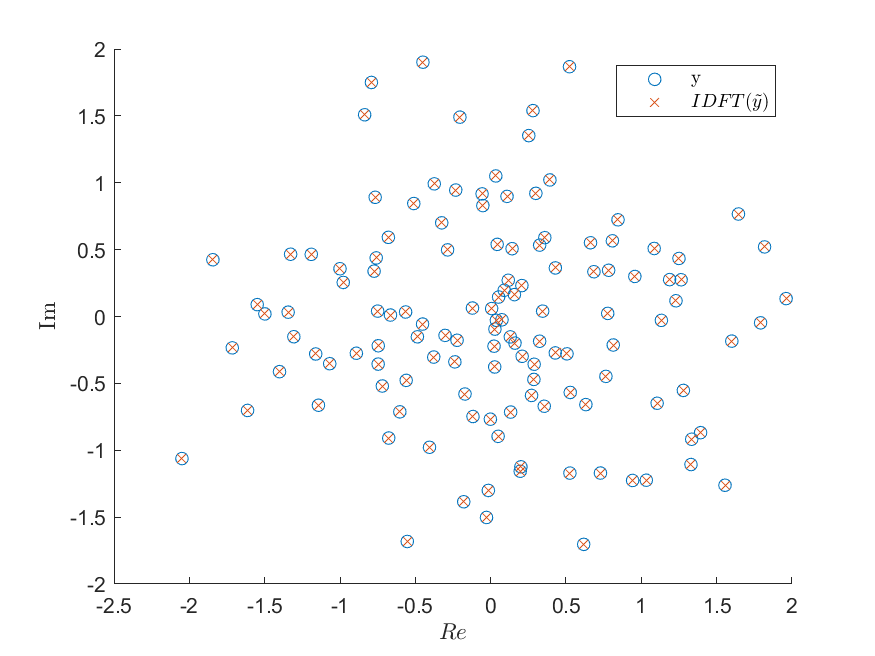
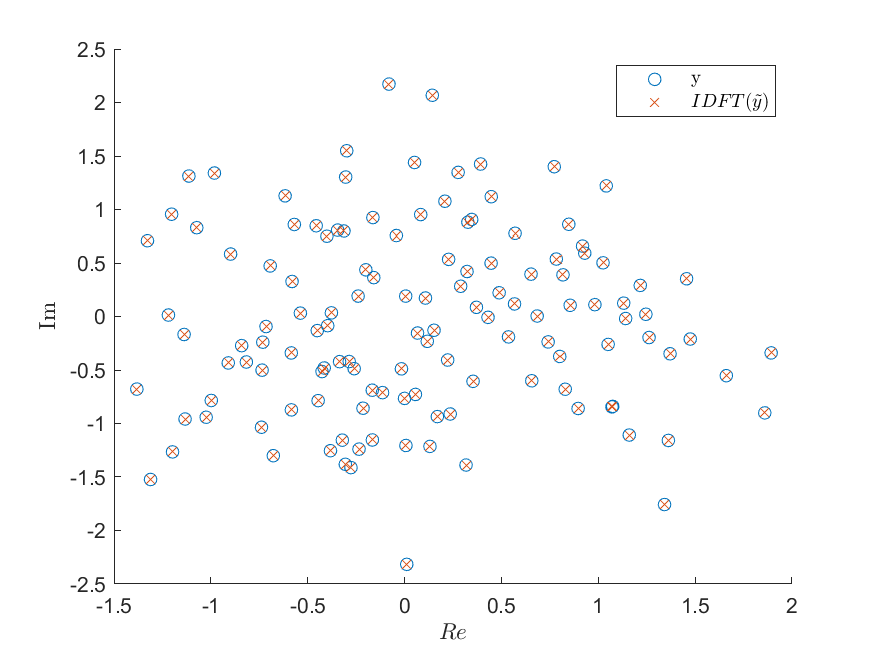
Exercise 3 2 Part additional testing

diff --git a/Exercise 3/Exercise_3_3_2.m b/Exercise 3/Exercise_3_3_2.m
@@ -1,7 +1,8 @@
 clc; close all; clear;
 
 N = 128; % Sequence lengh
-L = 8; % Responce Length
+L = 4; % Responce Length
+Nc = N/L;
 Packets = 500;
 X = [1 + 1i, -1 + 1i, 1 - 1i, -1 - 1i ];
 
@@ -20,7 +21,8 @@ for snr = 1 : size(snr_db,2)
         h_tilde = (1/sqrt(N))*fft(h,N);
         
         % 4-QAM data block
-        d = sign(-1+2*rand(N,1)) + 1i*sign(-1+2*rand(N,1));
+        dc = sign(-1+2*rand(Nc,1)) + 1i*sign(-1+2*rand(Nc,1));
+        d = repmat(dc,L,1);
         d_tilde = (1/sqrt(N))*fft(d,N);
 
         % Channel input
